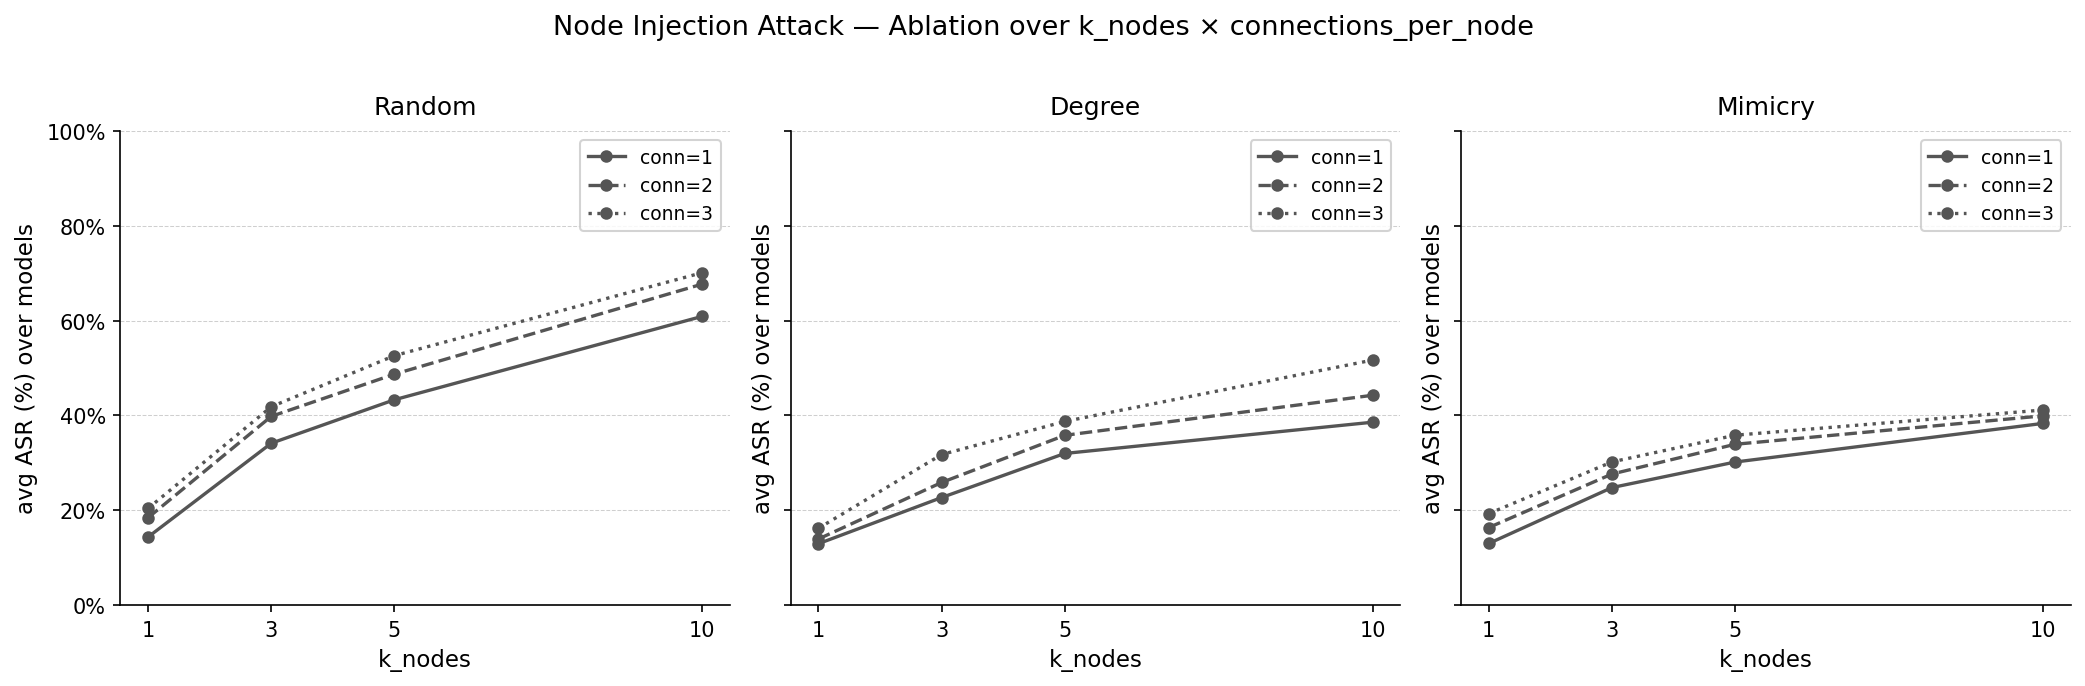
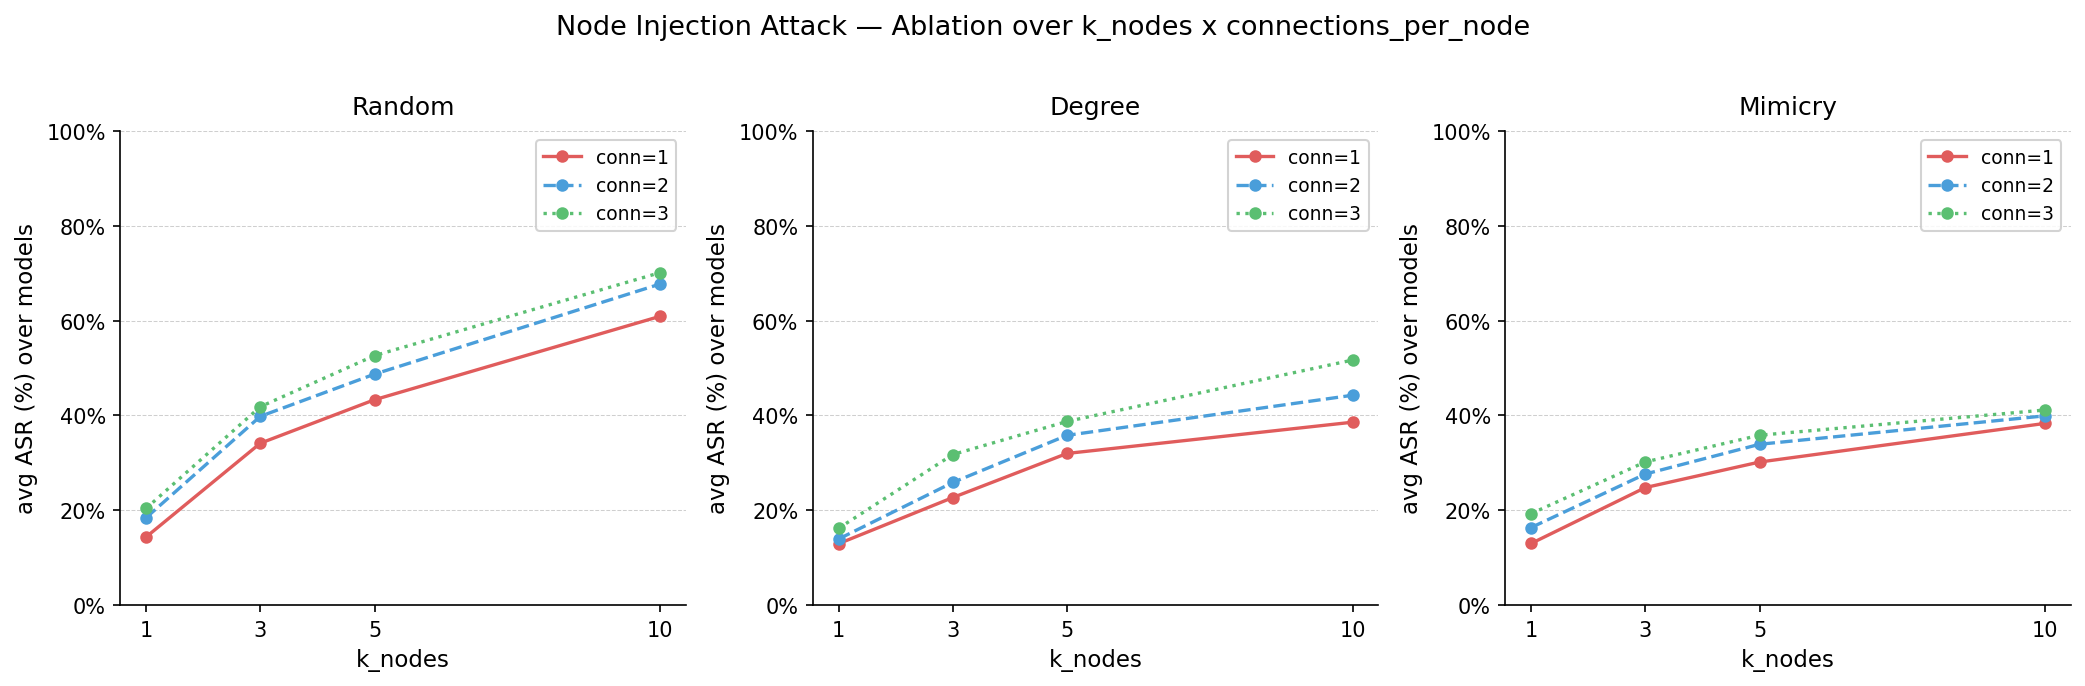
final

diff --git a/scripts/ablation_plots.py b/scripts/ablation_plots.py
@@ -142,11 +142,12 @@ def plot_injection():
     c_values   = data["connections_per_node"]
     strategies = data["strategies"]
 
-    fig, axes = plt.subplots(1, 3, figsize=(14, 4.5), sharey=True)
+    fig, axes = plt.subplots(1, 3, figsize=(14, 4.5))
     fig.suptitle("Node Injection Attack — Ablation over k_nodes x connections_per_node",
                  fontsize=13, y=1.01)
 
     linestyles = {1: "-", 2: "--", 3: ":"}
+    c_colors   = {1: "#e05c5c", 2: "#4a9eda", 3: "#5bbf72"}
 
     for ax, strategy in zip(axes, strategies):
         for c in c_values:
@@ -156,7 +157,7 @@ def plot_injection():
                 vals = [data["models"][m]["combinations"].get(key, {}).get("asr") or 0
                         for m in MODELS]
                 asrs.append(np.mean(vals) * 100)
-            ax.plot(k_values, asrs, color="#555", linestyle=linestyles[c],
+            ax.plot(k_values, asrs, color=c_colors[c], linestyle=linestyles[c],
                     marker="o", markersize=5, linewidth=1.6,
                     label=f"conn={c}")
         style_ax(ax, ylabel="avg ASR (%) over models", xlabel="k_nodes",

diff --git a/scripts/final_comparison.py b/scripts/final_comparison.py
@@ -791,7 +791,7 @@ def asr_vs_budget():
     ]
     style_handles = [
         plt.Line2D([0], [0], linestyle="-", marker="o", color="grey",
-                   label="Topology Rewiring (peel-chain)"),
+                   label="Topology Rewiring (chain-injection)"),
         plt.Line2D([0], [0], linestyle=":", marker="^", color="grey",
                    label="Node Injection (random, c=1)"),
     ]
